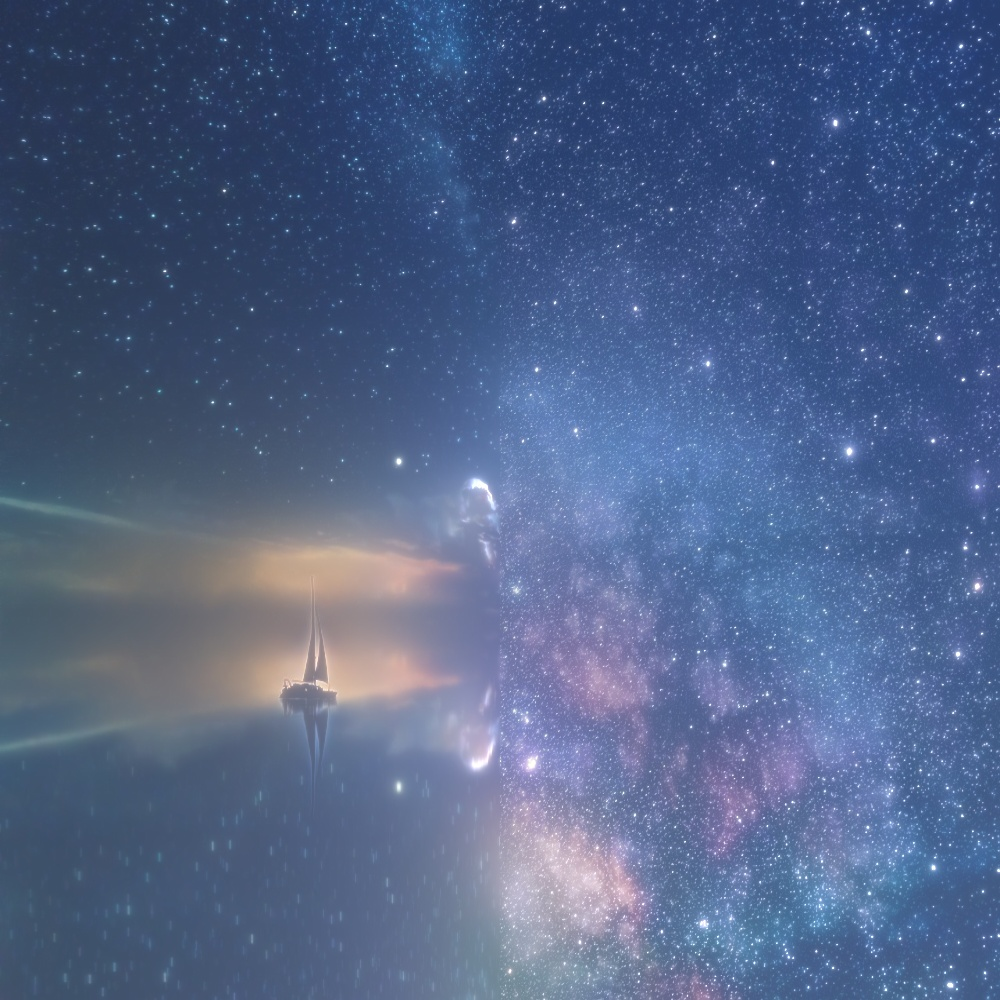
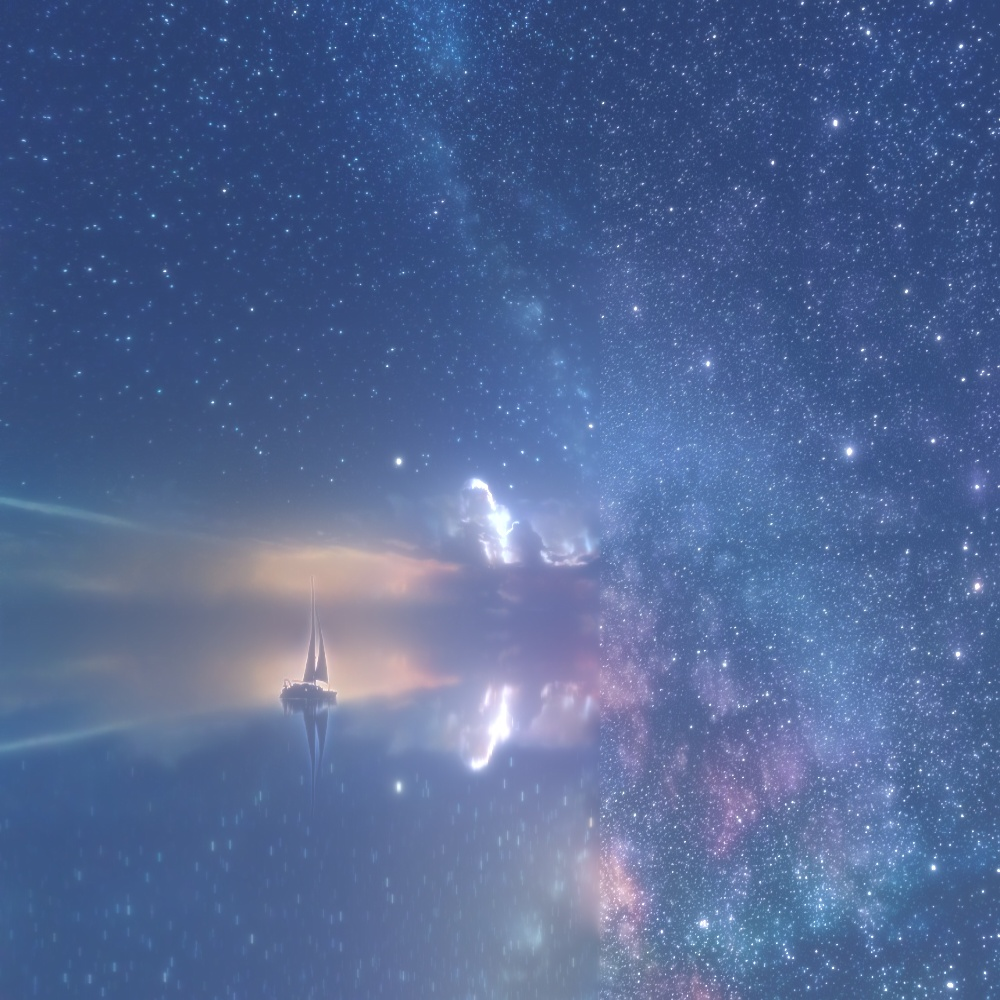
update

diff --git a/main.py b/main.py
@@ -8,7 +8,7 @@ print(A.shape, B.shape)
 A = cv.resize(A, (1000, 1000), interpolation=cv.INTER_LINEAR)
 B = cv.resize(B, (1000, 1000), interpolation=cv.INTER_LINEAR)
 
-n = 10
+n = 100
 
 # generate Gaussian pyramid for A
 G = A.copy()
@@ -46,19 +46,19 @@ for i in range(n - 1, 0, -1):
 LS = []
 for la, lb in zip(lpA, lpB):
     rows, cols, dpt = la.shape
-    ls = np.hstack((la[:, 0:int(cols / 2)], lb[:, int(cols / 2):]))
+    ls = np.hstack((la[:, :int(cols * 0.6)], lb[:, int(cols * 0.6):]))
     LS.append(ls)
 
 # now reconstruct
 ls_ = LS[0]
-for i in range(1, n):
+for i in range(n // 2, n):
     ls_ = cv.pyrUp(ls_)
     w, h, _ = LS[i].shape
     ls_ = cv.resize(ls_, (w, h))  # size keep same
     ls_ = cv.add(ls_, LS[i])
 # image with direct connecting each half
 
-real = np.hstack((A[:, :int(cols / 2)], B[:, int(cols / 2):]))
+real = np.hstack((A[:, :int(cols * 0.6)], B[:, int(cols * 0.6):]))
 cv.imwrite('Pyramid_blending.jpg', ls_)
 cv.imwrite('Direct_blending.jpg', real)
 
